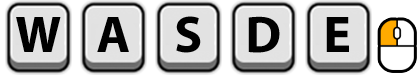
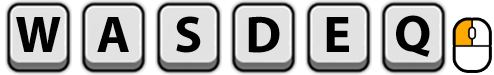
q tutorial

diff --git a/Assets/Scripts/UI/TutorialHintView.cs b/Assets/Scripts/UI/TutorialHintView.cs
@@ -19,7 +19,8 @@ public class TutorialHintView : MonoBehaviour
     {
         Move = 0,
         Pickup = 1,
-        Done = 2,
+        Drop = 2,
+        Done = 3,
     }
 
     [SerializeField] GameObject root;
@@ -143,6 +144,12 @@ public class TutorialHintView : MonoBehaviour
         }
 
         if (_step == Step.Pickup && HasPickupInput())
+        {
+            AdvanceTo(Step.Drop);
+            return;
+        }
+
+        if (_step == Step.Drop && HasDropInput())
             AdvanceTo(Step.Done);
     }
 
@@ -296,6 +303,8 @@ public class TutorialHintView : MonoBehaviour
                 return LocalizationKeys.TutorialMove;
             case Step.Pickup:
                 return LocalizationKeys.TutorialPickup;
+            case Step.Drop:
+                return LocalizationKeys.TutorialDrop;
             default:
                 return null;
         }
@@ -340,6 +349,11 @@ public class TutorialHintView : MonoBehaviour
     static bool HasPickupInput()
     {
         return Input.GetKeyDown(KeyCode.E) || Input.GetMouseButtonDown(0);
+    }
+
+    static bool HasDropInput()
+    {
+        return Input.GetKeyDown(KeyCode.Q);
     }
 
     static void DiscardCarried()

diff --git a/Assets/Scripts/Core/Localization/LocalizationKeys.cs b/Assets/Scripts/Core/Localization/LocalizationKeys.cs
@@ -93,4 +93,5 @@ public static class LocalizationKeys
     // In-game tutorial hints (inline <sprite name="W"> tags)
     public const string TutorialMove = "tutorial.move";
     public const string TutorialPickup = "tutorial.pickup";
+    public const string TutorialDrop = "tutorial.drop";
 }

diff --git a/Assets/Editor/TutorialHintUIBuilder.cs b/Assets/Editor/TutorialHintUIBuilder.cs
@@ -253,6 +253,7 @@ public static class TutorialHintUIBuilder
             "s_icon.png",
             "d_icon.png",
             "e_icon.png",
+            "q_icon.png",
             "mouse_left_click_icon.png",
         };
         for (int i = 0; i < names.Length; i++)
